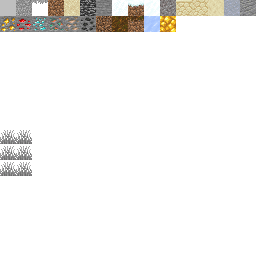
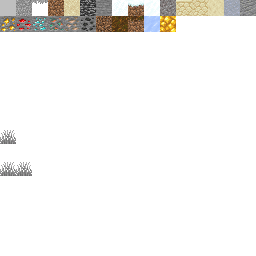
REFACT: instance를 따로 분리하지 않고 block으로 구분, instance는 따로 중복처리

Changed region(s): [[0.0, 0.5, 0.125, 0.625]]

diff --git a/voxen/Chunk.cpp b/voxen/Chunk.cpp
@@ -29,7 +29,7 @@ ChunkInitMemory* Chunk::Initialize(ChunkInitMemory* memory)
 	// 0. initialize chunk data
 	InitChunkData();
 
-	// 1. intialize instance vertcie data
+	// 1. intialize instance vertices data
 	InitInstanceInfoData();
 
 	// 2. initialize world(opaque & water & semiAlpha) vertice data by greedy meshing
@@ -78,7 +78,7 @@ void Chunk::Clear()
 	m_semiAlphaVertices.clear();
 	m_semiAlphaIndices.clear();
 
-	m_instanceMap.clear();
+	m_instanceList.clear();
 }
 
 void Chunk::InitChunkData()
@@ -113,29 +113,19 @@ void Chunk::InitInstanceInfoData()
 {
 	for (int x = 0; x < CHUNK_SIZE; ++x) {
 		for (int z = 0; z < CHUNK_SIZE; ++z) {
-			int worldX = (int)m_offsetPosition.x + x - 1;
-			int worldZ = (int)m_offsetPosition.z + z - 1;
-			/*
-			float noise = Terrain::PerlinFbm(worldX / 8.0f, worldZ / 8.0f, 2.0f, 1);
-
 			for (int y = 0; y < CHUNK_SIZE; ++y) {
-				if (noise < 0.25f)
-					continue;
-
-				if ((m_blocks[x + 1][y + 1][z + 1].GetType() == BLOCK_TYPE::BLOCK_AIR ||
-						m_blocks[x + 1][y + 1][z + 1].GetType() == BLOCK_TYPE::BLOCK_WATER) &&
-					Block::IsOpaqua(m_blocks[x + 1][y][z + 1].GetType())) {
+				BLOCK_TYPE blockType = m_blocks[x + 1][y + 1][z + 1].GetType();
+				if (Block::IsInstance(blockType)) {
 					Instance instance;
 
-					instance.SetTextureIndex(TEXTURE_INDEX::TEXTURE_SHORT_GRASS);
+					instance.SetTextureIndex(Terrain::GetBlockTextureIndex(blockType));
 
-					Vector3 pos = Vector3((float)x, (float)y, (float)z) + Vector3(0.5f);
+					Vector3 pos = Vector3((float)x + 0.5f, (float)y + 0.5f, (float)z + 0.5f);
 					instance.SetWorld(Matrix::CreateTranslation(pos));
 
-					m_instanceMap[std::make_tuple(x, y, z)] = instance;
+					m_instanceList.push_back(instance);
 				}
 			}
-			*/
 		}
 	}
 }
@@ -163,6 +153,9 @@ void Chunk::InitWorldVerticesData(ChunkInitMemory* memory)
 				BLOCK_TYPE type = m_blocks[x][y][z].GetType();
 
 				if (type == BLOCK_TYPE::BLOCK_AIR)
+					continue;
+
+				if (Block::IsInstance(type))
 					continue;
 
 				if (Block::IsTransparency(type)) {

diff --git a/voxen/Terrain.h b/voxen/Terrain.h
@@ -655,7 +655,19 @@ namespace Terrain {
 		case BIOME_SEASONFOREST:
 		case BIOME_SAVANA:
 			if (y == baseHeight) {
-				if (d <= 0.95)
+				if (d <= 0.25f) {
+					return BLOCK_SHORT_GRASS;
+				}
+				else if (d <= 0.95f){
+					return BLOCK_GRASS;
+				}
+				else {
+					return BLOCK_DIRT;
+				}
+
+			}
+			else if (y == baseHeight - 1) {
+				if (d <= 0.25f)
 					return BLOCK_GRASS;
 				else
 					return BLOCK_DIRT;
@@ -700,7 +712,7 @@ namespace Terrain {
 		return blockType;
 	}
 
-	static TEXTURE_INDEX GetBlockTextureIndex(BLOCK_TYPE blockType, uint8_t face)
+	static TEXTURE_INDEX GetBlockTextureIndex(BLOCK_TYPE blockType, uint8_t face = DIR::ANY)
 	{
 		switch (blockType) {
 
@@ -789,6 +801,9 @@ namespace Terrain {
 
 		case BLOCK_GOLD:
 			return TEXTURE_GOLD;
+
+		case BLOCK_SHORT_GRASS:
+			return TEXTURE_SHORT_GRASS;
 
 		default:
 			return TEXTURE_STONE;

diff --git a/voxen/ChunkManager.cpp b/voxen/ChunkManager.cpp
@@ -367,13 +367,13 @@ void ChunkManager::UpdateInstanceInfoList(Camera& camera)
 			continue;
 
 		// set info
-		const std::map<std::tuple<int, int, int>, Instance>& instanceMap = c->GetInstanceMap();
-		for (auto& p : instanceMap) {
+		const std::vector<Instance>& instanceList = c->GetInstanceList();
+		for (auto& p : instanceList) {
 			InstanceInfoVertex info;
-			info.texIndex = p.second.GetTextureIndex();
+			info.texIndex = p.GetTextureIndex();
 
 			info.instanceWorld =
-				(p.second.GetWorld() * Matrix::CreateTranslation(chunkPosition)).Transpose();
+				(p.GetWorld() * Matrix::CreateTranslation(chunkPosition)).Transpose();
 
 			m_instanceInfoList[Instance::GetInstanceType(info.texIndex)].push_back(info);
 		}

diff --git a/voxen/Chunk.h b/voxen/Chunk.h
@@ -69,9 +69,9 @@ public:
 	}
 	inline const std::vector<uint32_t>& GetSemiAlphaIndices() const { return m_semiAlphaIndices; }
 
-	inline const std::map<std::tuple<int, int, int>, Instance>& GetInstanceMap() const
+	inline const std::vector<Instance>& GetInstanceList() const
 	{
-		return m_instanceMap;
+		return m_instanceList;
 	}
 
 	inline const ChunkConstantData& GetConstantData() const { return m_constantData; }
@@ -94,7 +94,7 @@ private:
 		std::vector<uint32_t>& indices, BLOCK_TYPE types);
 
 	Block m_blocks[CHUNK_SIZE_P][CHUNK_SIZE_P][CHUNK_SIZE_P];
-	std::map<std::tuple<int, int, int>, Instance> m_instanceMap;
+	std::vector<Instance> m_instanceList;
 
 	UINT m_id;
 	bool m_isLoaded;

diff --git a/voxen/Structure.h b/voxen/Structure.h
@@ -10,7 +10,8 @@ enum DIR : uint8_t {
 	BOTTOM = 2,
 	TOP = 3,
 	FRONT = 4,
-	BACK = 5
+	BACK = 5,
+	ANY = 6,
 };
 
 enum BIOME_TYPE : uint8_t {
@@ -30,6 +31,7 @@ enum BIOME_TYPE : uint8_t {
 };
 
 enum BLOCK_TYPE : uint8_t {
+	// block
 	BLOCK_AIR = 0,
 	BLOCK_WATER = 1,
 	BLOCK_BEDROCK = 2,
@@ -53,6 +55,9 @@ enum BLOCK_TYPE : uint8_t {
 	BLOCK_PODZOL = 20,
 	BLOCK_ICE = 21,
 	BLOCK_GOLD = 22,
+
+	// instance
+	BLOCK_SHORT_GRASS = 128
 };
 
 enum TEXTURE_INDEX : uint8_t {

diff --git a/voxen/Instance.h b/voxen/Instance.h
@@ -5,8 +5,6 @@
 
 using namespace DirectX::SimpleMath;
 
-
-
 class Instance {
 public:
 	static const int INSTANCE_TYPE_COUNT = 3;
